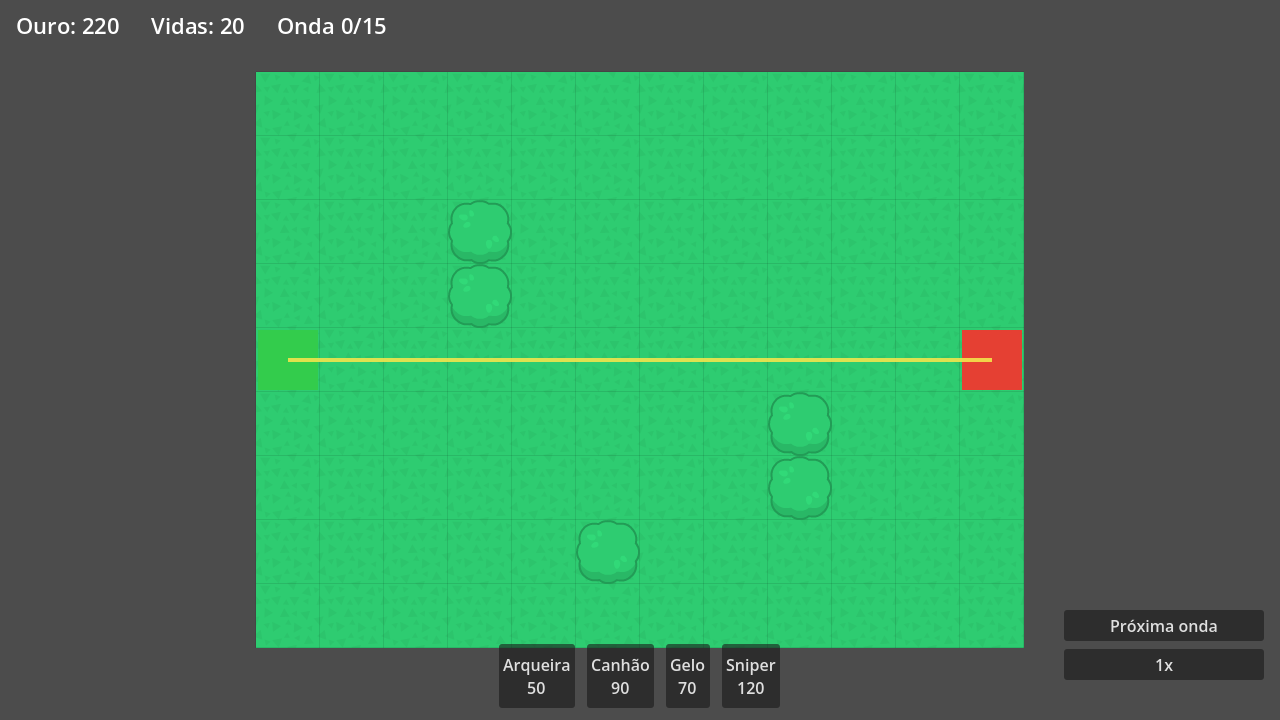
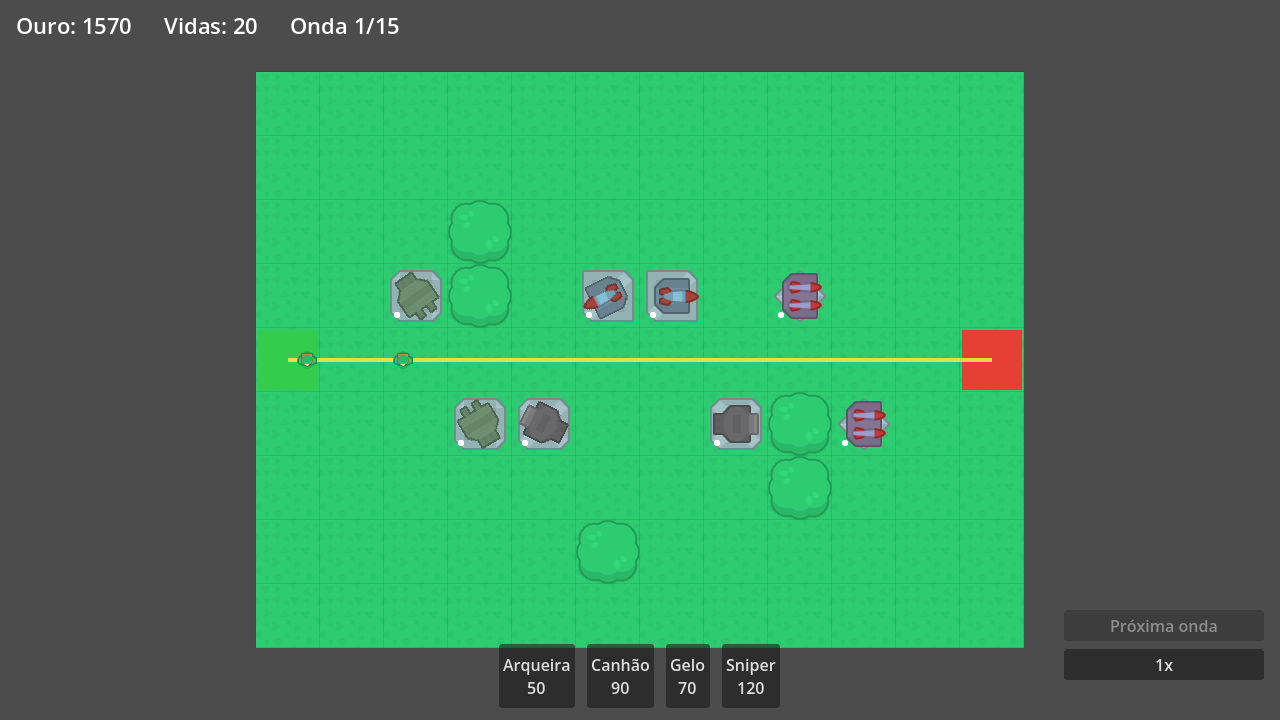
Revisão funcional: teste end-to-end de partida completa + screenshot de combate
- test_zz_integration: instancia a cena REAL e joga o mapa 1 inteiro
  (15 ondas, kill-box de Snipers/Canhões upados, time_scale 20x) até a
  vitória — valida fiação completa build→ondas→combate→economia→save→
  unlock do mapa 2; e a derrota sem torres exibe a tela correta
- tools/screenshot.gd agora captura combate real (torres atirando,
  inimigos em rota); screenshot do README atualizada
- AudioManager solta o playback no _exit_tree; quirk de "resources in
  use" no exit com Ogg em loop documentado no CLAUDE.md (upstream)
- wait_frames deprecado → wait_physics_frames
- 48 testes, 552 asserts, zero erros de script no boot

diff --git a/CLAUDE.md b/CLAUDE.md
@@ -30,6 +30,8 @@ GODOT=/mnt/c/Users/luis_/godot/Godot_v4.6.3-stable_win64_console.exe
 ```
 
 Gotchas learned the hard way:
+- At process exit, Godot reports `2 resources still in use` / `ObjectDB instances leaked` for the looping menu music (`AudioStreamOggVorbis`). This is a known upstream shutdown-ordering quirk with looping Ogg streams, not a real runtime leak — don't chase it. Grep boot output for `SCRIPT ERROR` instead of bare `error` to avoid false positives.
+- Scripts run via `-s` (like `tools/screenshot.gd`) compile BEFORE autoloads register: any static reference (preload chains, typed game classes) to scripts that use `GameEvents`/`AudioManager` fails to compile. Use untyped vars and `load()` at runtime inside such tools.
 - After creating new `class_name` scripts or addons, run `--import` before tests, or class names won't be registered.
 - Never copy an addon with `cp -r src/gut addons/` when `addons/` doesn't exist — it copies the *contents* to `addons/` root, causing UID duplicates. `mkdir -p addons` first.
 - The implementation plan (milestones M1-M6, decisões técnicas) is at `/home/luis_/.claude/plans/agora-planeje-detalhadamente-a-misty-snowglobe.md`.
